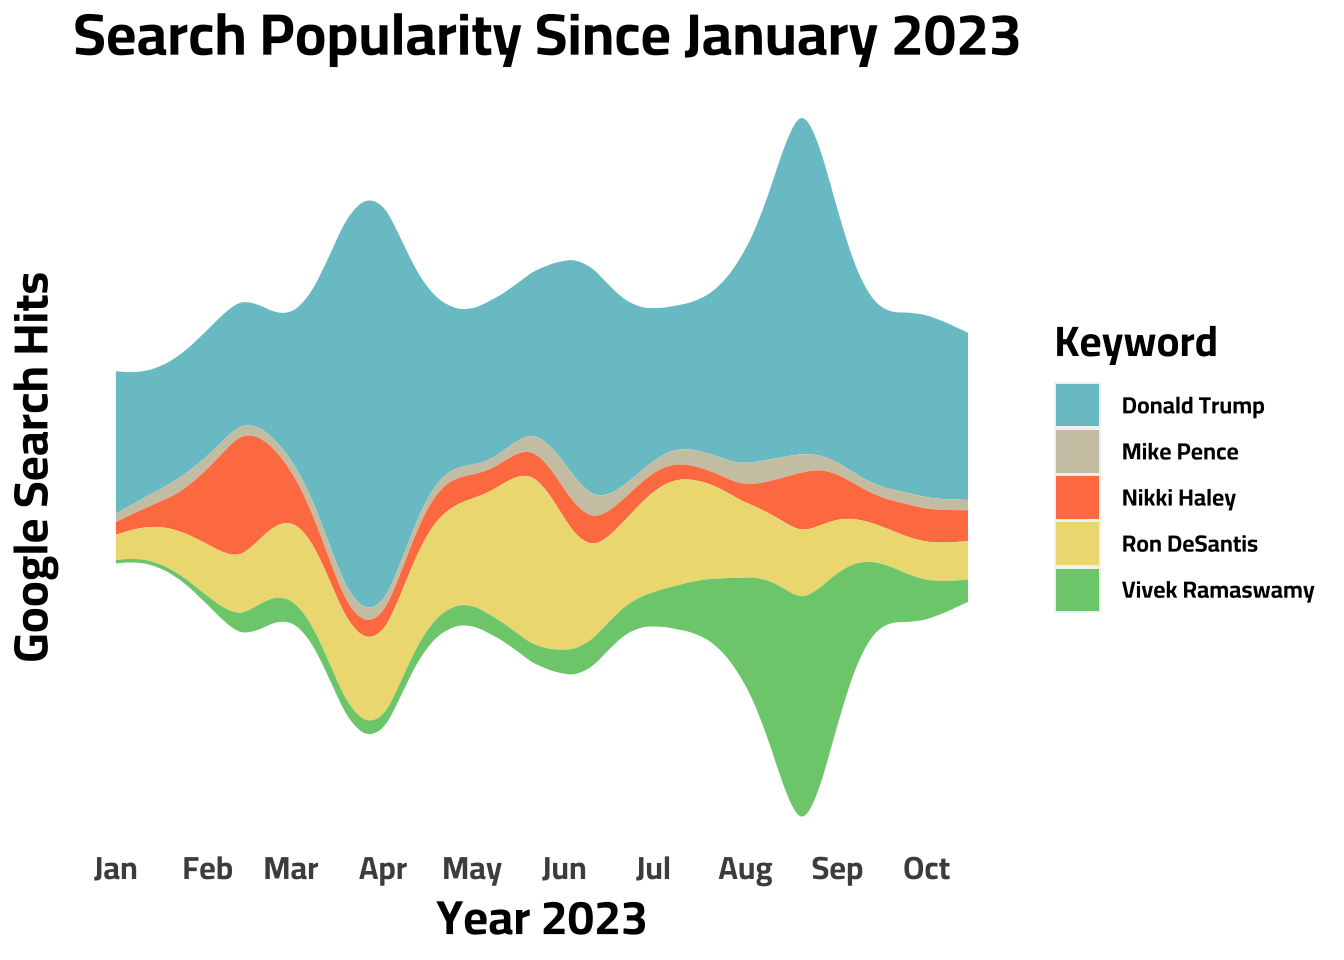
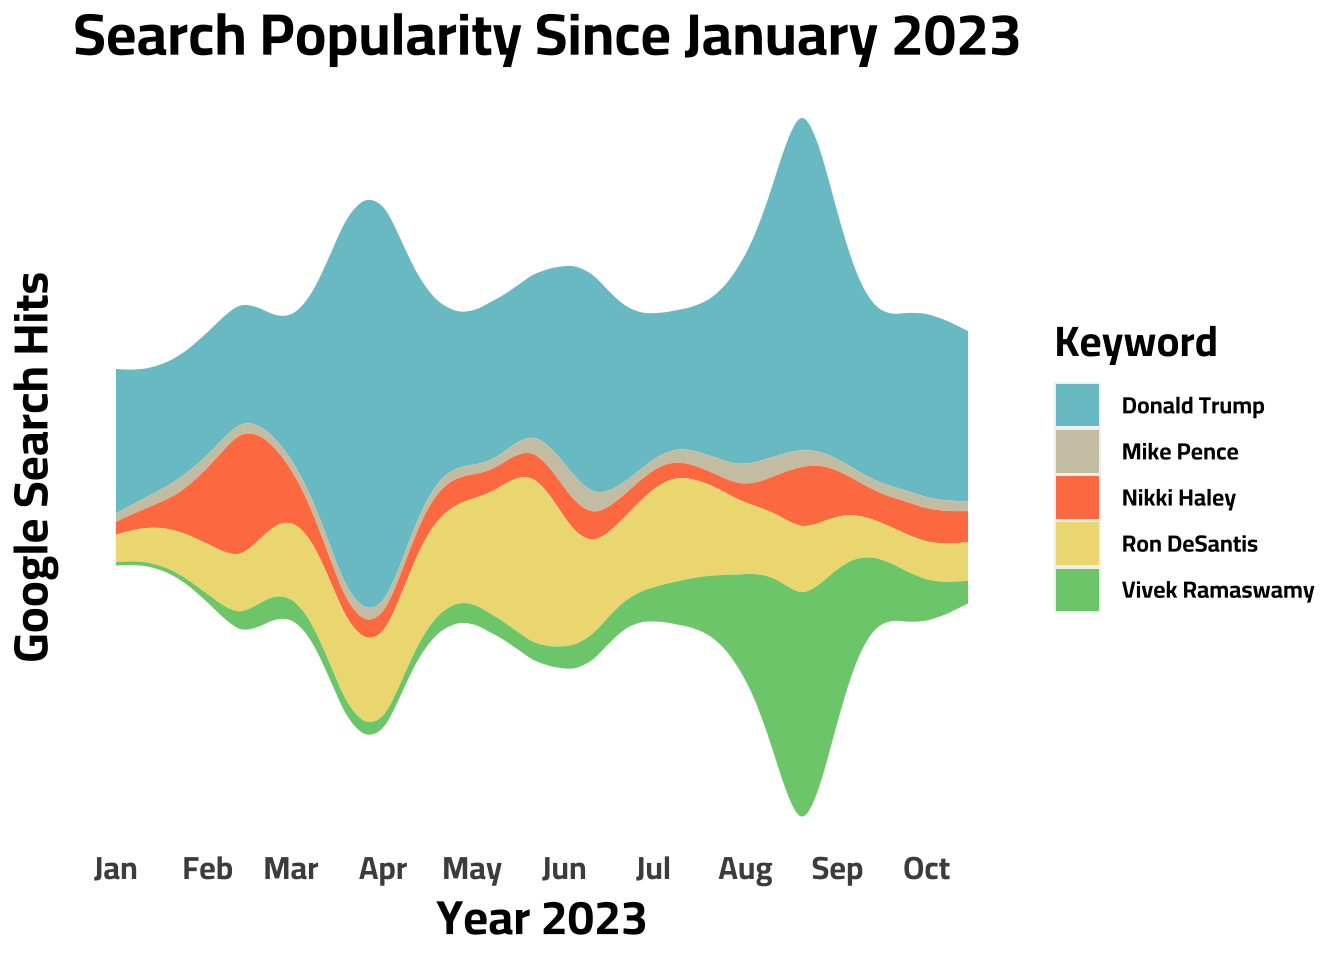
StreamGraph Update

diff --git a/_site/blog.html b/_site/blog.html
@@ -178,7 +178,7 @@ ul.task-list li input[type="checkbox"] {
 
 <div class="quarto-listing quarto-listing-container-default" id="listing-listing">
 <div class="list quarto-listing-default">
-<div class="quarto-post image-right" data-index="0" data-categories="Life Hacks,Commentary" data-listing-date-sort="1697760000000" data-listing-file-modified-sort="1698150200411" data-listing-date-modified-sort="NaN" data-listing-reading-time-sort="8">
+<div class="quarto-post image-right" data-index="0" data-categories="Life Hacks,Commentary" data-listing-date-sort="1697760000000" data-listing-file-modified-sort="1698236623691" data-listing-date-modified-sort="NaN" data-listing-reading-time-sort="8">
 <div class="thumbnail">
 <p><a href="./posts/path_to_datascience/index.html"> <img src="./posts/path_to_datascience/tile.png" class="thumbnail-image"> </a></p>
 </div>
@@ -209,7 +209,7 @@ Oct 20, 2023
 </a>
 </div>
 </div>
-<div class="quarto-post image-right" data-index="1" data-categories="Google Trends,Data Journalism,Politics,CICD" data-listing-date-sort="1696377600000" data-listing-file-modified-sort="1698150200412" data-listing-date-modified-sort="NaN" data-listing-reading-time-sort="7">
+<div class="quarto-post image-right" data-index="1" data-categories="Google Trends,Data Journalism,Politics,CICD" data-listing-date-sort="1696377600000" data-listing-file-modified-sort="1698236623692" data-listing-date-modified-sort="NaN" data-listing-reading-time-sort="7">
 <div class="thumbnail">
 <p><a href="./posts/primary_stream/index.html"> <img src="././about_files/primary_1.png" class="thumbnail-image"> </a></p>
 </div>
@@ -246,7 +246,7 @@ Oct 4, 2023
 </a>
 </div>
 </div>
-<div class="quarto-post image-right" data-index="2" data-categories="CICD,Quarto" data-listing-date-sort="1694044800000" data-listing-file-modified-sort="1698150200407" data-listing-date-modified-sort="NaN" data-listing-reading-time-sort="8">
+<div class="quarto-post image-right" data-index="2" data-categories="CICD,Quarto" data-listing-date-sort="1694044800000" data-listing-file-modified-sort="1698236623687" data-listing-date-modified-sort="NaN" data-listing-reading-time-sort="8">
 <div class="thumbnail">
 <p><a href="./posts/cicd_primary/index.html"> <img src="https://external-content.duckduckgo.com/iu/?u=https%3A%2F%2Fwww.adictosaltrabajo.com%2Fwp-content%2Fuploads%2F2020%2F10%2Fandroid-github-actions-setup-image-35b6a79fea4a7289acb6796cd4ad05b4.png&amp;f=1&amp;nofb=1&amp;ipt=b02a4ecfb6e2d666f35916b643a6f3e9907e880252d1e19d3eda47521252e9c3&amp;ipo=images" class="thumbnail-image"> </a></p>
 </div>
@@ -277,7 +277,7 @@ Sep 7, 2023
 </a>
 </div>
 </div>
-<div class="quarto-post image-right" data-index="3" data-categories="Life Hacks,Quarto" data-listing-date-sort="1688601600000" data-listing-file-modified-sort="1698150200412" data-listing-date-modified-sort="NaN" data-listing-reading-time-sort="3">
+<div class="quarto-post image-right" data-index="3" data-categories="Life Hacks,Quarto" data-listing-date-sort="1688601600000" data-listing-file-modified-sort="1698236623693" data-listing-date-modified-sort="NaN" data-listing-reading-time-sort="3">
 <div class="thumbnail">
 <p><a href="./posts/simple_analytics/index.html"> <img src="./about_files/Simple_Analytics.png" class="thumbnail-image"> </a></p>
 </div>
@@ -308,7 +308,7 @@ Jul 6, 2023
 </a>
 </div>
 </div>
-<div class="quarto-post image-right" data-index="4" data-categories="Data Journalism,Google Trends,Politics" data-listing-date-sort="1687824000000" data-listing-file-modified-sort="1698150200408" data-listing-date-modified-sort="NaN" data-listing-reading-time-sort="7">
+<div class="quarto-post image-right" data-index="4" data-categories="Data Journalism,Google Trends,Politics" data-listing-date-sort="1687824000000" data-listing-file-modified-sort="1698236623688" data-listing-date-modified-sort="NaN" data-listing-reading-time-sort="7">
 <div class="thumbnail">
 <p><a href="./posts/google_trends/index.html"> <img src="./about_files/byteman.png" class="thumbnail-image"> </a></p>
 </div>
@@ -342,7 +342,7 @@ Jun 27, 2023
 </a>
 </div>
 </div>
-<div class="quarto-post image-right" data-index="5" data-categories="Data Journalism,LDS,R" data-listing-date-sort="1675728000000" data-listing-file-modified-sort="1698150200409" data-listing-date-modified-sort="NaN" data-listing-reading-time-sort="4">
+<div class="quarto-post image-right" data-index="5" data-categories="Data Journalism,LDS,R" data-listing-date-sort="1675728000000" data-listing-file-modified-sort="1698236623689" data-listing-date-modified-sort="NaN" data-listing-reading-time-sort="4">
 <div class="thumbnail">
 <p><a href="./posts/income_myth/index.html"> <img src="./about_files/LDS_myth_0.png" class="thumbnail-image"> </a></p>
 </div>
@@ -376,7 +376,7 @@ Feb 7, 2023
 </a>
 </div>
 </div>
-<div class="quarto-post image-right" data-index="6" data-categories="Life Hacks,Quarto" data-listing-date-sort="1662076800000" data-listing-file-modified-sort="1698150200412" data-listing-date-modified-sort="NaN" data-listing-reading-time-sort="4">
+<div class="quarto-post image-right" data-index="6" data-categories="Life Hacks,Quarto" data-listing-date-sort="1662076800000" data-listing-file-modified-sort="1698236623693" data-listing-date-modified-sort="NaN" data-listing-reading-time-sort="4">
 <div class="thumbnail">
 <p><a href="./posts/resume/index.html"> <img src="./about_files/resume_2.png" class="thumbnail-image"> </a></p>
 </div>
@@ -407,7 +407,7 @@ Sep 2, 2022
 </a>
 </div>
 </div>
-<div class="quarto-post image-right" data-index="7" data-categories="Survey Research,Data Journalism,LDS" data-listing-date-sort="1646265600000" data-listing-file-modified-sort="1698150200406" data-listing-date-modified-sort="NaN" data-listing-reading-time-sort="7">
+<div class="quarto-post image-right" data-index="7" data-categories="Survey Research,Data Journalism,LDS" data-listing-date-sort="1646265600000" data-listing-file-modified-sort="1698236623686" data-listing-date-modified-sort="NaN" data-listing-reading-time-sort="7">
 <div class="thumbnail">
 <p><a href="./posts/7_facts/index.html"> <img src="https://www.ldstemple.pics/wp-content/uploads/washington-dc-temple-final-sunset-600x600.jpg" class="thumbnail-image"> </a></p>
 </div>
@@ -441,7 +441,7 @@ Mar 3, 2022
 </a>
 </div>
 </div>
-<div class="quarto-post image-right" data-index="8" data-categories="Data Journalism,R" data-listing-date-sort="1618012800000" data-listing-file-modified-sort="1698150200408" data-listing-date-modified-sort="NaN" data-listing-reading-time-sort="4">
+<div class="quarto-post image-right" data-index="8" data-categories="Data Journalism,R" data-listing-date-sort="1618012800000" data-listing-file-modified-sort="1698236623688" data-listing-date-modified-sort="NaN" data-listing-reading-time-sort="4">
 <div class="thumbnail">
 <p><a href="./posts/facebook_data/index.html"> <img src="./about_files/fb_icon" class="thumbnail-image"> </a></p>
 </div>
@@ -472,7 +472,7 @@ Apr 10, 2021
 </a>
 </div>
 </div>
-<div class="quarto-post image-right" data-index="9" data-categories="Data Journalism,R,Survey Research,LDS,Politics" data-listing-date-sort="1607472000000" data-listing-file-modified-sort="1698150200409" data-listing-date-modified-sort="NaN" data-listing-reading-time-sort="8">
+<div class="quarto-post image-right" data-index="9" data-categories="Data Journalism,R,Survey Research,LDS,Politics" data-listing-date-sort="1607472000000" data-listing-file-modified-sort="1698236623689" data-listing-date-modified-sort="NaN" data-listing-reading-time-sort="8">
 <div class="thumbnail">
 <p><a href="./posts/lds_gop/index.html"> <img src="./about_files/iu-3.jpeg" class="thumbnail-image"> </a></p>
 </div>
@@ -512,7 +512,7 @@ Dec 9, 2020
 </a>
 </div>
 </div>
-<div class="quarto-post image-right" data-index="10" data-categories="Data Journalism,R" data-listing-date-sort="1594339200000" data-listing-file-modified-sort="1698150200407" data-listing-date-modified-sort="NaN" data-listing-reading-time-sort="7">
+<div class="quarto-post image-right" data-index="10" data-categories="Data Journalism,R" data-listing-date-sort="1594339200000" data-listing-file-modified-sort="1698236623687" data-listing-date-modified-sort="NaN" data-listing-reading-time-sort="7">
 <div class="thumbnail">
 <p><a href="./posts/cars/index.html"> <img src="https://media.giphy.com/media/rUE9CTmsYMbbOz2MqD/giphy.gif" class="thumbnail-image"> </a></p>
 </div>
@@ -543,7 +543,7 @@ Jul 10, 2020
 </a>
 </div>
 </div>
-<div class="quarto-post image-right" data-index="11" data-categories="Data Journalism,R,Shiny" data-listing-date-sort="1591660800000" data-listing-file-modified-sort="1698150200409" data-listing-date-modified-sort="NaN" data-listing-reading-time-sort="7">
+<div class="quarto-post image-right" data-index="11" data-categories="Data Journalism,R,Shiny" data-listing-date-sort="1591660800000" data-listing-file-modified-sort="1698236623689" data-listing-date-modified-sort="NaN" data-listing-reading-time-sort="7">
 <div class="thumbnail">
 <p><a href="./posts/mobility/index.html"> <img src="./about_files/iu-2.jpeg" class="thumbnail-image"> </a></p>
 </div>

diff --git a/_site/projects.html b/_site/projects.html
@@ -178,7 +178,7 @@ ul.task-list li input[type="checkbox"] {
 
 <div class="quarto-listing quarto-listing-container-grid" id="listing-listing">
 <div class="list grid quarto-listing-cols-3">
-<div class="g-col-1" data-index="0" data-categories="Capstone,Python,Stats" data-listing-date-sort="1682899200000" data-listing-file-modified-sort="1698150200422" data-listing-date-modified-sort="NaN" data-listing-reading-time-sort="4">
+<div class="g-col-1" data-index="0" data-categories="Capstone,Python,Stats" data-listing-date-sort="1682899200000" data-listing-file-modified-sort="1698236623708" data-listing-date-modified-sort="NaN" data-listing-reading-time-sort="4">
 <a href="./projects/internet_archive/index.html" class="quarto-grid-link">
 <div class="quarto-grid-item card h-100 card-left">
 <p class="card-img-top">
@@ -211,7 +211,7 @@ May 1, 2023
 </div>
 </a>
 </div>
-<div class="g-col-1" data-index="1" data-categories="Python,Stats,Dataviz" data-listing-date-sort="1660867200000" data-listing-file-modified-sort="1698150200420" data-listing-date-modified-sort="NaN" data-listing-reading-time-sort="10">
+<div class="g-col-1" data-index="1" data-categories="Python,Stats,Dataviz" data-listing-date-sort="1660867200000" data-listing-file-modified-sort="1698236623703" data-listing-date-modified-sort="NaN" data-listing-reading-time-sort="10">
 <a href="./projects/bayesian_county/index.html" class="quarto-grid-link">
 <div class="quarto-grid-item card h-100 card-left">
 <p class="card-img-top">
@@ -244,7 +244,7 @@ Aug 19, 2022
 </div>
 </a>
 </div>
-<div class="g-col-1" data-index="2" data-categories="CI/CD,R,Dataviz" data-listing-date-sort="1636329600000" data-listing-file-modified-sort="1698150200420" data-listing-date-modified-sort="NaN" data-listing-reading-time-sort="3">
+<div class="g-col-1" data-index="2" data-categories="CI/CD,R,Dataviz" data-listing-date-sort="1636329600000" data-listing-file-modified-sort="1698236623704" data-listing-date-modified-sort="NaN" data-listing-reading-time-sort="3">
 <a href="./projects/covid_update/index.html" class="quarto-grid-link">
 <div class="quarto-grid-item card h-100 card-left">
 <p class="card-img-top">
@@ -277,7 +277,7 @@ Nov 8, 2021
 </div>
 </a>
 </div>
-<div class="g-col-1" data-index="3" data-categories="Dataviz,Stats,R" data-listing-date-sort="1600387200000" data-listing-file-modified-sort="1698150200421" data-listing-date-modified-sort="NaN" data-listing-reading-time-sort="2">
+<div class="g-col-1" data-index="3" data-categories="Dataviz,Stats,R" data-listing-date-sort="1600387200000" data-listing-file-modified-sort="1698236623704" data-listing-date-modified-sort="NaN" data-listing-reading-time-sort="2">
 <a href="./projects/election_model/index.html" class="quarto-grid-link">
 <div class="quarto-grid-item card h-100 card-left">
 <p class="card-img-top">
@@ -310,7 +310,7 @@ Sep 18, 2020
 </div>
 </a>
 </div>
-<div class="g-col-1" data-index="4" data-categories="R,Shiny" data-listing-date-sort="1596153600000" data-listing-file-modified-sort="1698150200423" data-listing-date-modified-sort="NaN" data-listing-reading-time-sort="2">
+<div class="g-col-1" data-index="4" data-categories="R,Shiny" data-listing-date-sort="1596153600000" data-listing-file-modified-sort="1698236623709" data-listing-date-modified-sort="NaN" data-listing-reading-time-sort="2">
 <a href="./projects/peanuts/index.html" class="quarto-grid-link">
 <div class="quarto-grid-item card h-100 card-left">
 <p class="card-img-top">
@@ -340,7 +340,7 @@ Jul 31, 2020
 </div>
 </a>
 </div>
-<div class="g-col-1" data-index="5" data-categories="Capstone,R,Stats" data-listing-date-sort="1587772800000" data-listing-file-modified-sort="1698150200424" data-listing-date-modified-sort="NaN" data-listing-reading-time-sort="6">
+<div class="g-col-1" data-index="5" data-categories="Capstone,R,Stats" data-listing-date-sort="1587772800000" data-listing-file-modified-sort="1698236623712" data-listing-date-modified-sort="NaN" data-listing-reading-time-sort="6">
 <a href="./projects/star_wars_capstone/index.html" class="quarto-grid-link">
 <div class="quarto-grid-item card h-100 card-left">
 <p class="card-img-top">

diff --git a/_site/posts/primary_stream/index.html b/_site/posts/primary_stream/index.html
@@ -181,7 +181,7 @@ Note
 </div>
 </div>
 <div class="callout-body-container callout-body">
-<p>This graph is updated on a daily basis to provide continuous context to the GOP Primary Election. This graph was last updated: 12:23:25 on 24 Oct 2023</p>
+<p>This graph is updated on a daily basis to provide continuous context to the GOP Primary Election. This graph was last updated: 12:23:52 on 25 Oct 2023</p>
 </div>
 </div>
 <div class="cell">
@@ -234,7 +234,7 @@ Note
 </div>
 </div>
 <div class="callout-body-container callout-body">
-<p>This graph is updated on a daily basis to provide continuous context to the GOP Primary Election. This graph was last updated: 12:23:30 on 24 Oct 2023</p>
+<p>This graph is updated on a daily basis to provide continuous context to the GOP Primary Election. This graph was last updated: 12:23:59 on 25 Oct 2023</p>
 </div>
 </div>
 <p>This graph is provided to give a barometer reading of a candidates <em>recent</em> popularity/news coverage.</p>
